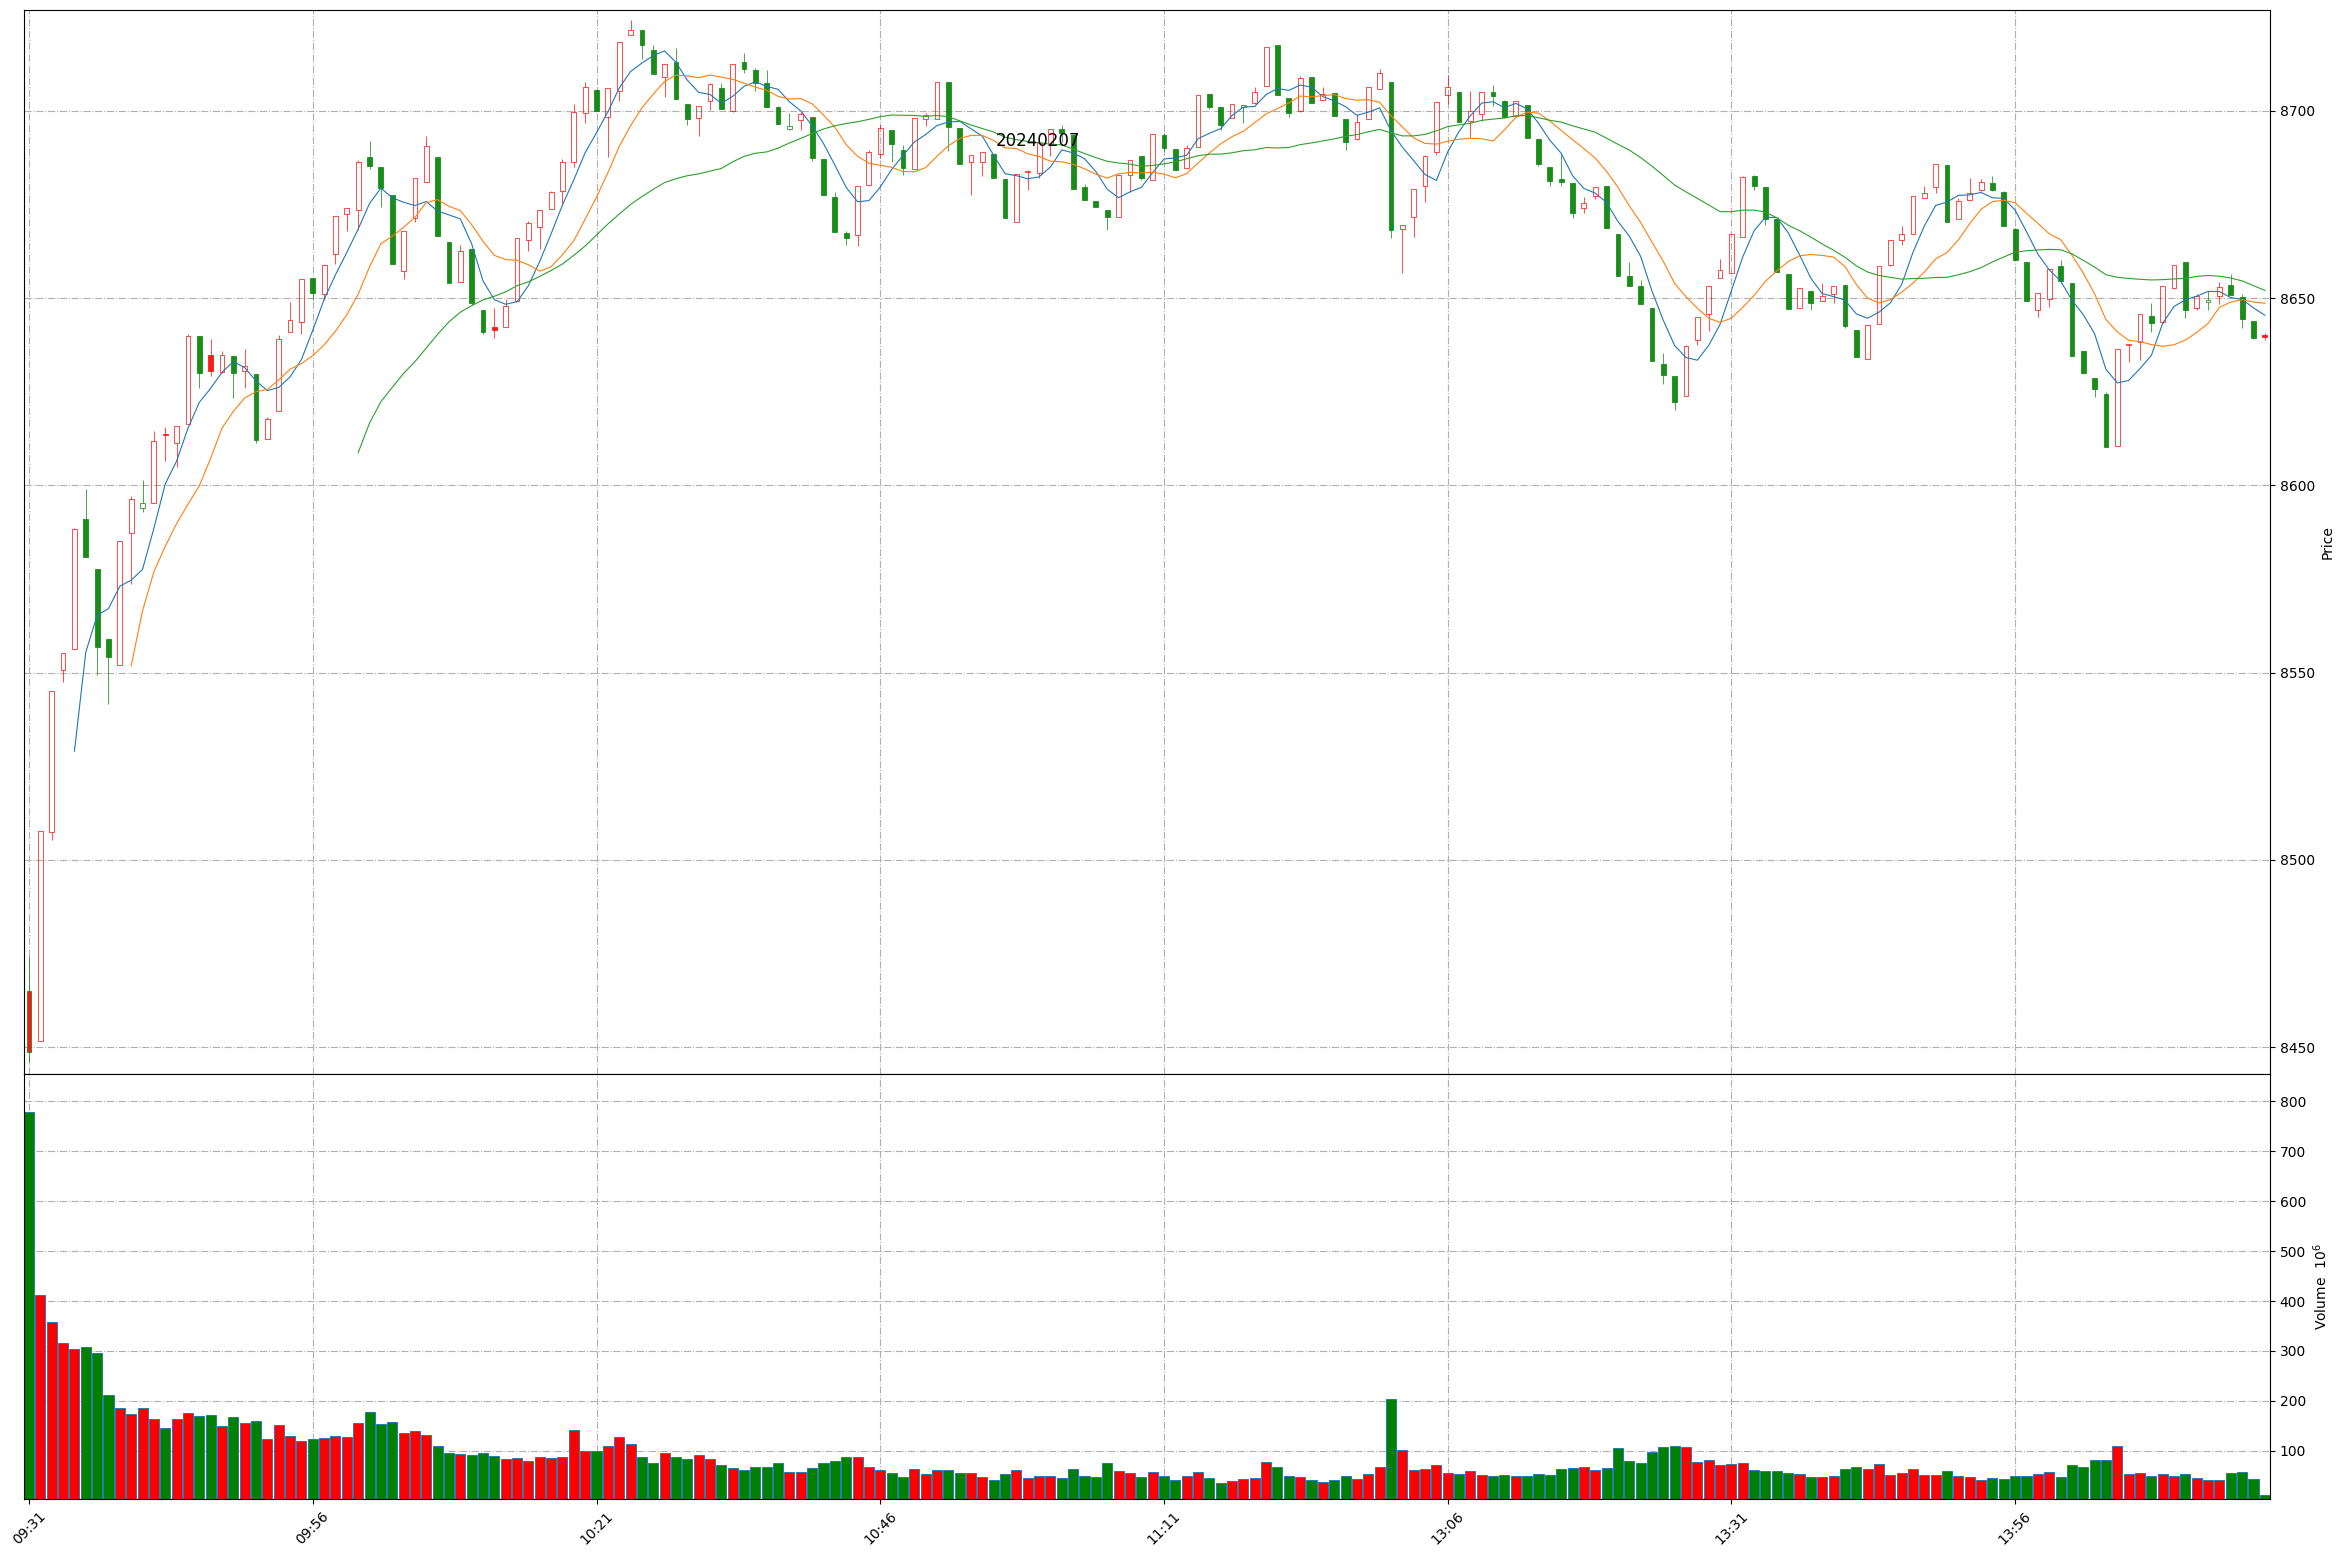
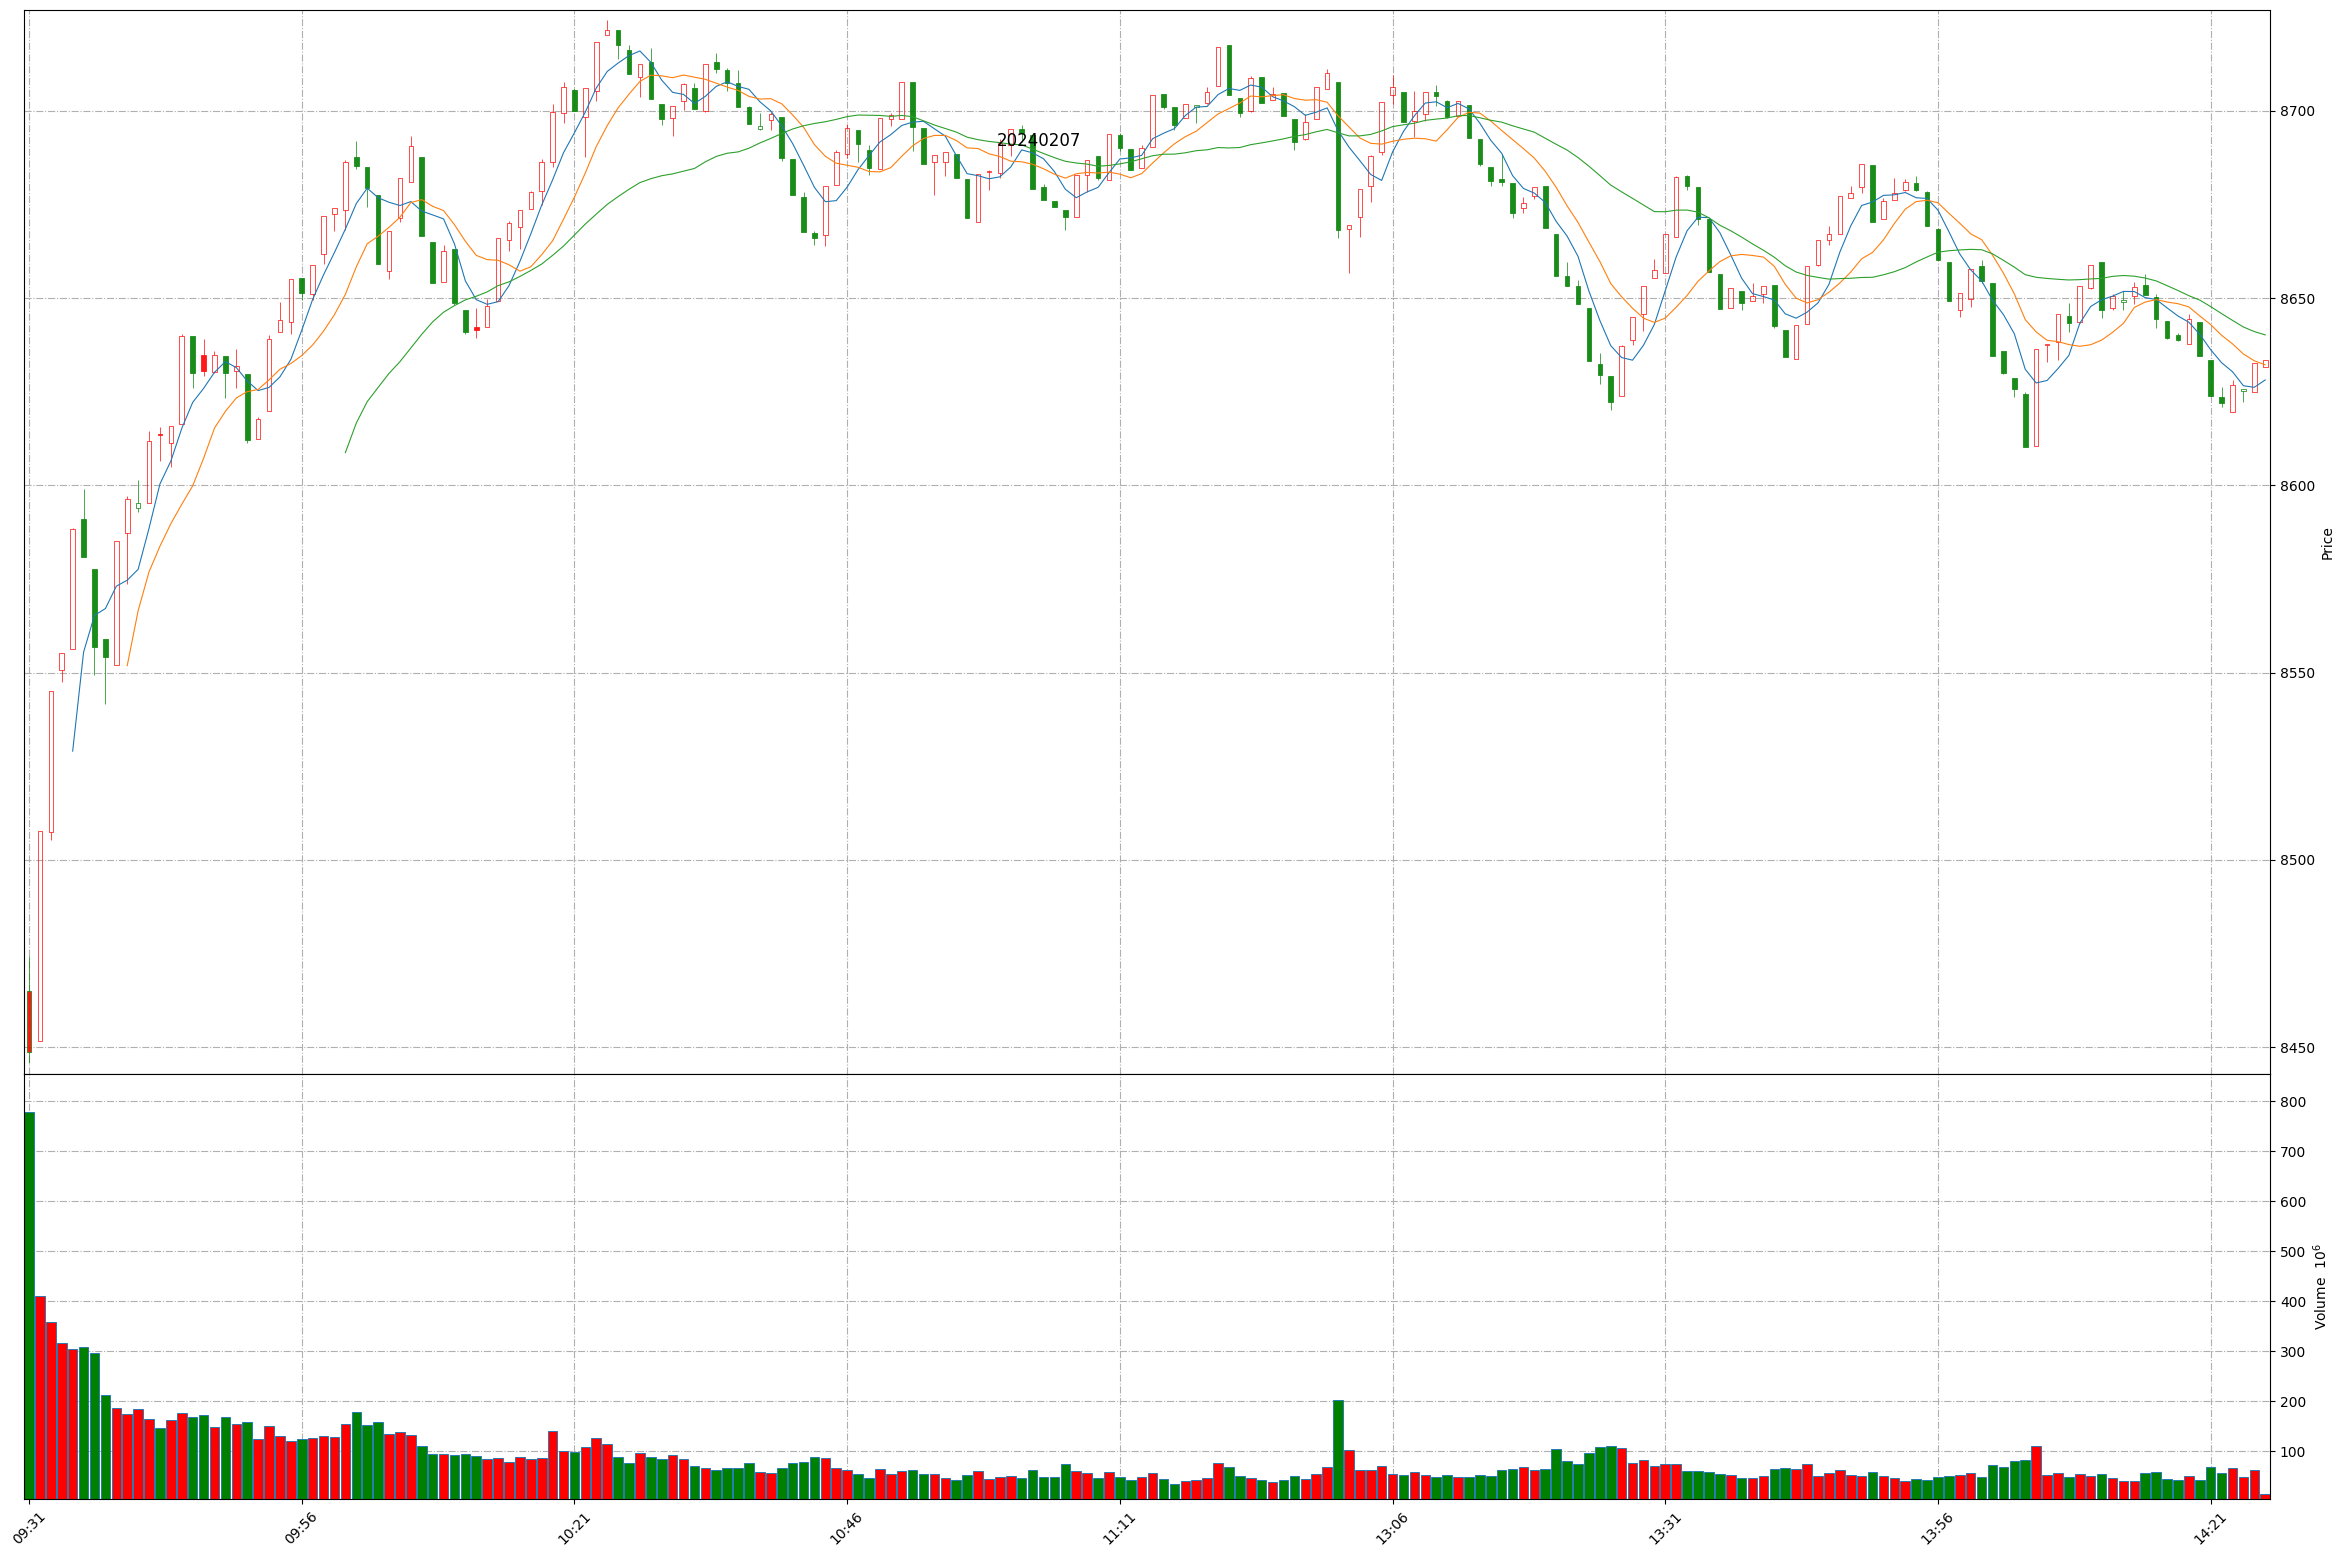
Github action update at 2024-02-07 14:25:37.

diff --git a/README.md b/README.md
@@ -1,11 +1,11 @@
 
 # Daily-A-share-market-quotes 每日 A 股指数（5min 更新）- 20240207
 
-### 上证指数 20240207 14:17
+### 上证指数 20240207 14:25
 ![](./fig/2024/2/20240207-sh000001.png)
 
-### 深证成指 20240207 14:17
+### 深证成指 20240207 14:25
 ![](./fig/2024/2/20240207-sz399001.png)
 
-### 北证50 20240207 14:17
+### 北证50 20240207 14:25
 ![](./fig/2024/2/20240207-bj899050.png)
